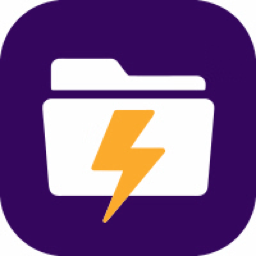
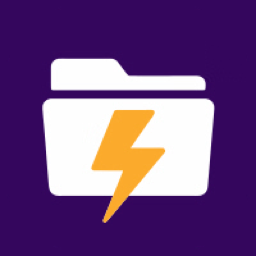
chore(release): 发布 0.2.1 — 书签列表改为 opt-in 并更新图标底色
- 新增 quickOpenFiles.listBookmarks 设置（默认 false），关闭时完全跳过书签的加载与展示
- 补充 listBookmarks 开关的集成测试，更新 README 配置说明
- 图标底色铺满整个图块，去除圆角形状外的白角
- 记录 CHANGELOG 0.2.0 / 0.2.1 条目，版本号升至 0.2.1

diff --git a/src/extension.vscode.test.ts b/src/extension.vscode.test.ts
@@ -45,6 +45,32 @@ suite('Quick Open Files extension', () => {
     }
   });
 
+  test('listBookmarks toggles the bookmark section in the root view', async function () {
+    this.timeout(10000);
+    const hasBookmarkSection = (session: BrowseSession) =>
+      (session as unknown as SessionInternals).qp.items.some(
+        (item) => item.label === 'Bookmarks' && item.kind === vscode.QuickPickItemKind.Separator,
+      );
+
+    const hidden = new BrowseSession({ ...getSettings(), listBookmarks: false });
+    try {
+      hidden.start();
+      await new Promise((resolve) => setTimeout(resolve, 500));
+      assert.ok(!hasBookmarkSection(hidden), 'no bookmark section when listBookmarks is false');
+    } finally {
+      (hidden as unknown as SessionInternals).qp.hide();
+    }
+
+    const shown = new BrowseSession({ ...getSettings(), listBookmarks: true });
+    try {
+      shown.start();
+      await new Promise((resolve) => setTimeout(resolve, 500));
+      assert.ok(hasBookmarkSection(shown), 'bookmark section appears when listBookmarks is true');
+    } finally {
+      (shown as unknown as SessionInternals).qp.hide();
+    }
+  });
+
   test('empty excludePatterns only counts when explicitly configured', async () => {
     const cfg = vscode.workspace.getConfiguration('quickOpenFiles');
     try {

diff --git a/src/browse.ts b/src/browse.ts
@@ -36,14 +36,20 @@ export class BrowseSession {
     this.qp.placeholder = 'Filter files and folders';
     this.qp.busy = true;
     // Load bookmarks and the current directory together; they are independent.
-    const bookmarksPromise = bookmarkEntries(this.settings.bookmarks);
+    // Bookmarks are skipped entirely when hidden: no section, no fs checks.
+    const bookmarksPromise = this.settings.listBookmarks
+      ? bookmarkEntries(this.settings.bookmarks)
+      : Promise.resolve([]);
     // currentDirOf skips untitled/remote documents, whose fsPath has no real folder.
     const dir = this.settings.listCurrentDir ? currentDirOf(activeDoc) : undefined;
     const entriesPromise: Promise<FileEntry[]> = dir ? this.listDir(dir, gen) : Promise.resolve([]);
     const bookmarks = await bookmarksPromise;
 
-    const items: BrowseItem[] = [{ label: 'Bookmarks', kind: QuickPickItemKind.Separator }];
-    items.push(...bookmarks.map(toItem));
+    const items: BrowseItem[] = [];
+    if (this.settings.listBookmarks) {
+      items.push({ label: 'Bookmarks', kind: QuickPickItemKind.Separator });
+      items.push(...bookmarks.map(toItem));
+    }
     if (dir) {
       items.push({ label: dir, kind: QuickPickItemKind.Separator });
       items.push(...(await entriesPromise).map(toItem));

diff --git a/src/settings.ts b/src/settings.ts
@@ -2,6 +2,7 @@ import * as vscode from 'vscode';
 
 export interface Settings {
   bookmarks: string[];
+  listBookmarks: boolean;
   persistentBrowsing: boolean;
   listCurrentDir: boolean;
   listDirsFirst: boolean;
@@ -13,6 +14,7 @@ export function getSettings(): Settings {
   const cfg = vscode.workspace.getConfiguration('quickOpenFiles');
   return {
     bookmarks: cfg.get<string[]>('bookmarks', ['~']),
+    listBookmarks: cfg.get('listBookmarks', false),
     persistentBrowsing: cfg.get('persistentBrowsing', false),
     listCurrentDir: cfg.get('listCurrentDir', true),
     listDirsFirst: cfg.get('listDirsFirst', false),

diff --git a/README.md b/README.md
@@ -8,7 +8,7 @@ Inspired by the classic [sublime-open](https://github.com/danielfrg/sublime-open
 
 ## Features
 
-- **Bookmarks**: jump straight to frequently used files and folders, across all workspaces.
+- **Bookmarks (opt-in)**: jump straight to frequently used files and folders, across all workspaces. Set `quickOpenFiles.listBookmarks` to `true` to list them.
 - **File system browsing**: drill into any directory with `Enter`, go up with `../` or the `←` back button.
 - **Persistent browsing (opt-in)**: set `quickOpenFiles.persistentBrowsing` to keep the picker open after opening a file, so you can keep opening more.
 - **Current directory listing**: the active editor's folder is listed right below your bookmarks.
@@ -26,6 +26,7 @@ Default keyboard shortcut: `Cmd+Alt+O` (macOS) / `Ctrl+Alt+O` (Windows, Linux). 
 | Setting | Default | Description |
 |---|---|---|
 | `quickOpenFiles.bookmarks` | `["~"]` | Files or folders shown at the top of the picker. `~` expands to your home directory. |
+| `quickOpenFiles.listBookmarks` | `false` | List your bookmarks at the top of the picker. |
 | `quickOpenFiles.persistentBrowsing` | `false` | Keep the picker open after opening a file. |
 | `quickOpenFiles.listCurrentDir` | `true` | List the active editor's folder below the bookmarks. |
 | `quickOpenFiles.listDirsFirst` | `false` | List folders before files instead of mixing everything alphabetically. |
@@ -36,6 +37,7 @@ Example:
 ```json
 {
   "quickOpenFiles.bookmarks": ["~", "~/.ssh/config", "~/projects"],
+  "quickOpenFiles.listBookmarks": true,
   "quickOpenFiles.excludePatterns": ["**/node_modules/**", ".DS_Store"]
 }
 ```

diff --git a/CHANGELOG.md b/CHANGELOG.md
@@ -2,6 +2,18 @@
 
 All notable changes to this project will be documented in this file.
 
+## [0.2.1] - 2026-10-02
+
+### Changed
+
+- Extension icon background now fills the entire tile with purple; the white corners around the rounded shape are gone.
+
+## [0.2.0] - 2026-10-02
+
+### Added
+
+- New setting `quickOpenFiles.listBookmarks` (default `false`) to toggle the bookmark list in the picker. Bookmarks are now hidden by default; set it to `true` to restore the previous behavior.
+
 ## [0.1.2] - 2026-10-01
 
 ### Changed
